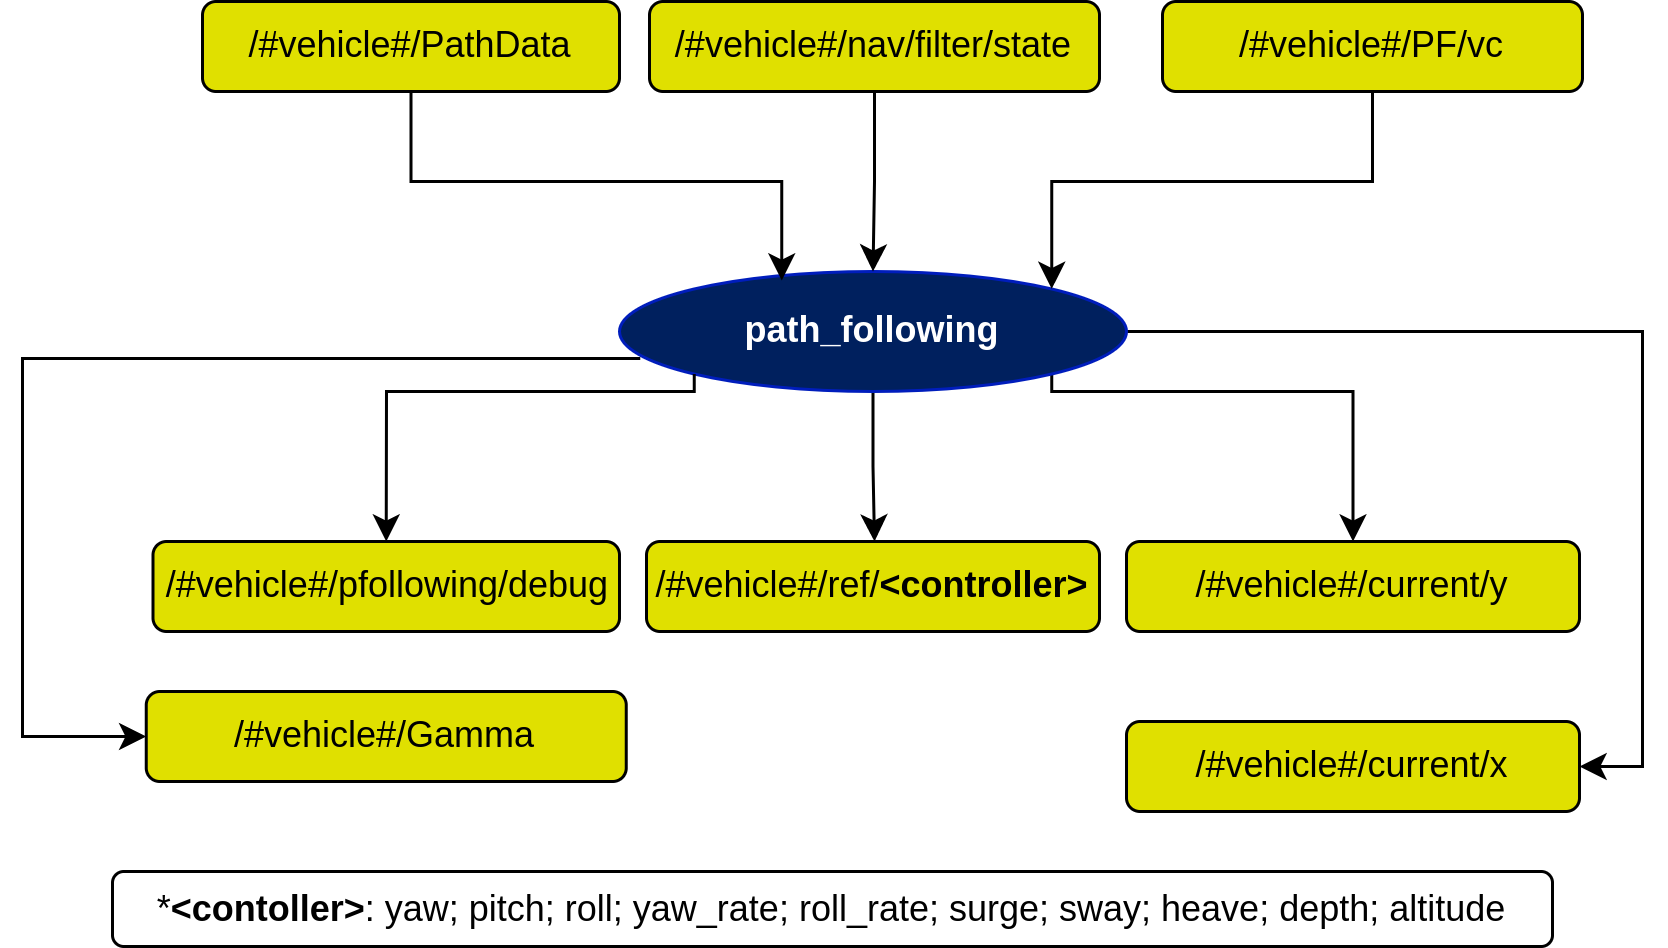
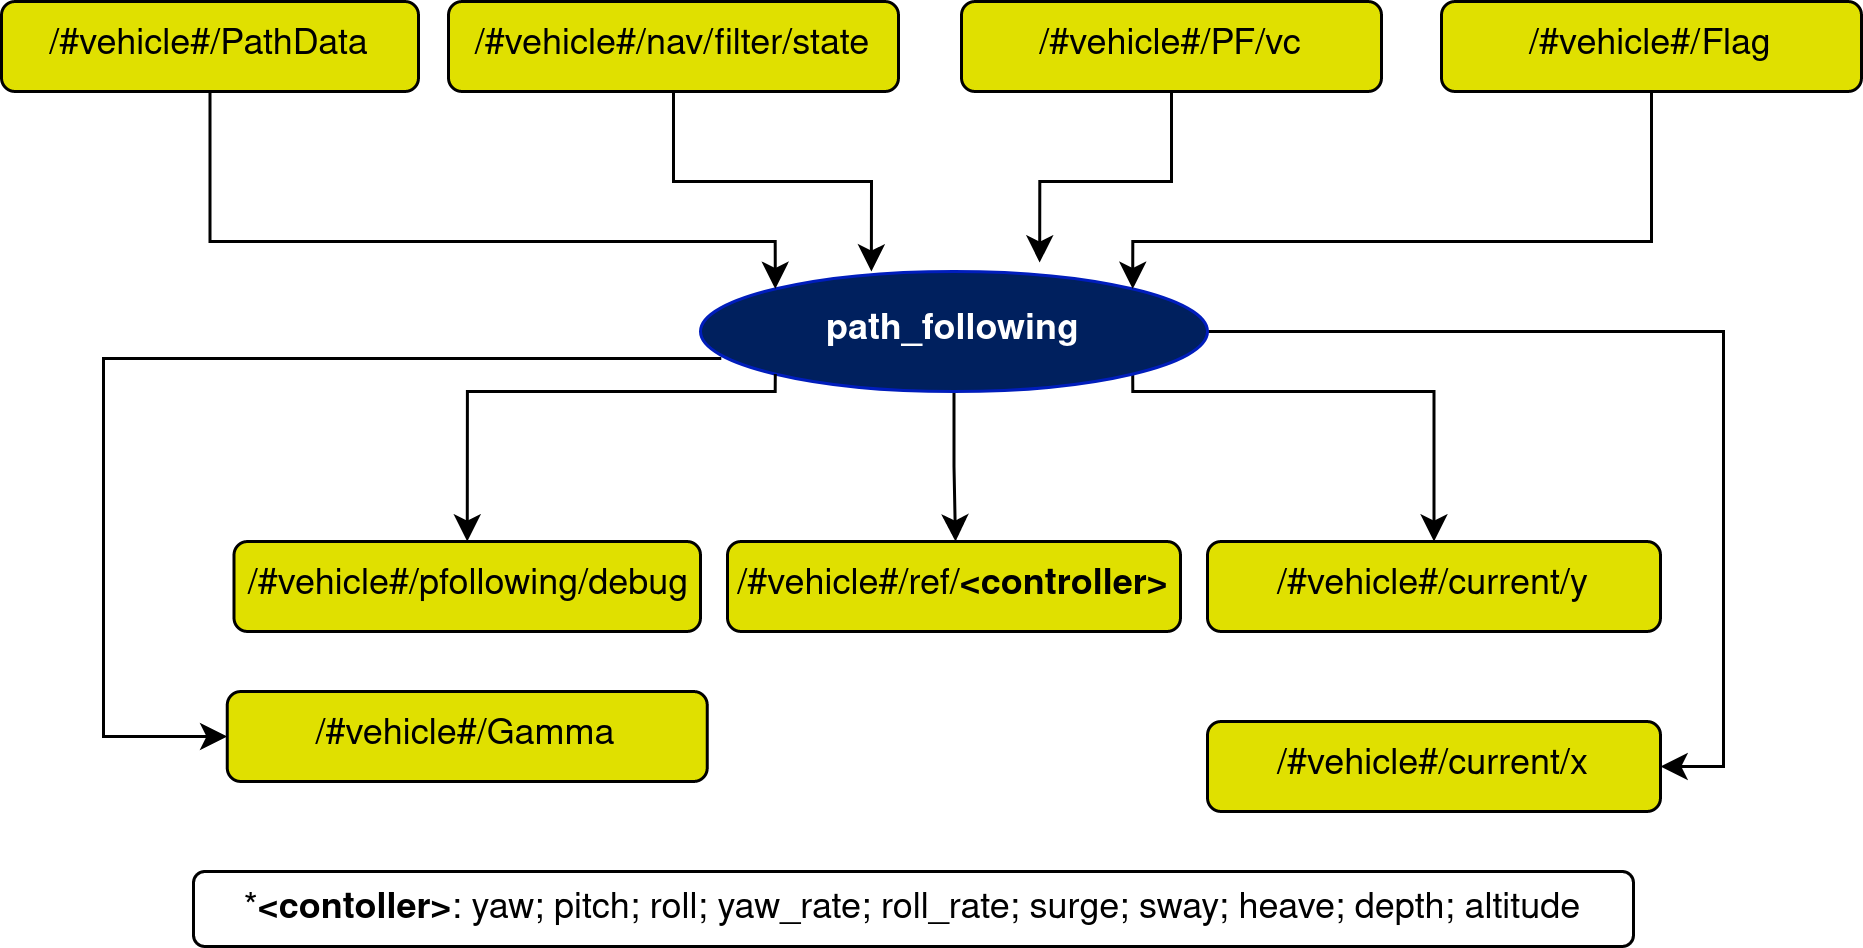
Update(farol_control/path_following): started path following documentation; finish general structure

diff --git a/farol_control/outer_loops_controllers/path_following/src/ros/PathFollowingNode.cpp b/farol_control/outer_loops_controllers/path_following/src/ros/PathFollowingNode.cpp
@@ -211,7 +211,7 @@ void PathFollowingNode::initializePublishers() {
 }
 
 /**
- * @brief  Vc callback used to update the correction velocity for cooperative
+ * @brief  Vc callback used to update the velocity correction for cooperative
  * path following
  *
  * @param msg  A pointer to an std_msgs::Float64 with the synchronization speed

diff --git a/farol_control/outer_loops_controllers/path_following/docs/path_following.md b/farol_control/outer_loops_controllers/path_following/docs/path_following.md
@@ -2,15 +2,33 @@
 
 ## In a nutshell
 
+
 ## Diagram
 ![path_following Diagram](img/path_following_diagram.png)
 
 ## Subscribers
+| Subscribers | msg type | Purpose |
+| --- | --- | --- |
+| /#vehicle#/nav/filter/state | [auv_msgs/NavigationStatus](https://github.com/oceansystemslab/auv_msgs/blob/1faaddd7ee6e9c2c9869e3d8dcff92bb56c2fce4/msg/NavigationStatus.msg) | |
+| /#vehicle#/PathData | [dsor_paths/PathData](https://dsor-isr.github.io/farol/dsor-paths/PathData/) | |
+| /#vehicle#/PF/vc | [std_msgs/Float64](http://docs.ros.org/en/api/std_msgs/html/msg/Float64.html) | |
+| /#vehicle#/Flag | [std_msgs/Int8](http://docs.ros.org/en/api/std_msgs/html/msg/Int8.html) | Flag that determines teh state of the vehicle (idle, following waypoint, path, etc.) |
+
 
 ## Publishers
+| Publishers | msg type | Purpose |
+| --- | --- | --- |
+| /#vehicle#/Gamma | | |
+| /#vehicle#/pfollowing/debug | | |
+| /#vehicle#/current/x | | |
+| /#vehicle#/current/y | | |
+| /#vehicle#/ref/`<controller>` | [std_msgs/Float64](http://docs.ros.org/en/api/std_msgs/html/msg/Float64.html) | |
 
 ## Services
+| Services | msg type | Purpose |
+| --- | --- | --- |
+| | | |
 
 ## Parameters
-
-
+| Parameters | type | Default | Purpose |
+| --- | --- | --- | --- |

diff --git a/farol_control/outer_loops_controllers/path_following/docs/README.md b/farol_control/outer_loops_controllers/path_following/docs/README.md
@@ -20,7 +20,17 @@ By default we provide several algorithms, from Line of Sight (LOS-Fossen) to mor
 **Last Update:** April/2021
 
 ## Nodes
-[path_following](./path_following.md)
+* [path_following](./path_following.md)
+
+## Services
+* [ResetVT](ResetVT.md)
+* [SetPF](SetPF.md)
+* [StartPF](StartPF.md)
+* [StopPF](StopPF.md)
+* [UpdateGainsPF](UpdateGainsPF.md)
+
+## Dependencies
+* None
 
 ## Path Following
 We start by providing a set of path following algorithms. Each algorithm inherits the class **PathFollowing**. As we see, every algorithm, even though different is implemented in the same structured manner. Some control *surge* and *yaw*. Others control *yaw rate* and other control *sway*. Some use the *closest point to the path* in the computations, and some use an *adptive virtual target*.

diff --git a/farol_control/outer_loops_controllers/path_following/docs/ResetVT.md b/farol_control/outer_loops_controllers/path_following/docs/ResetVT.md
@@ -1,0 +1,8 @@
+# [path_following](README.md)/ResetVT
+
+```
+float64 DEFAULT=0.0
+float64 value
+---
+bool success
+```

diff --git a/farol_control/outer_loops_controllers/path_following/docs/UpdateGainsPF.md b/farol_control/outer_loops_controllers/path_following/docs/UpdateGainsPF.md
@@ -1,0 +1,7 @@
+# [path_following](README.md)/UpdateGainsPF
+
+```
+float64[] gains
+---
+bool success
+```

diff --git a/farol_control/outer_loops_controllers/path_following/docs/StartPF.md b/farol_control/outer_loops_controllers/path_following/docs/StartPF.md
@@ -1,0 +1,6 @@
+# [path_following](README.md)/StartPF
+
+```
+---
+bool success
+```

diff --git a/farol_control/outer_loops_controllers/path_following/docs/StopPF.md b/farol_control/outer_loops_controllers/path_following/docs/StopPF.md
@@ -1,0 +1,6 @@
+# [path_following](README.md)/StopPF
+
+```
+---
+bool success
+```

diff --git a/farol_control/outer_loops_controllers/path_following/docs/SetPF.md b/farol_control/outer_loops_controllers/path_following/docs/SetPF.md
@@ -1,0 +1,6 @@
+# [path_following](README.md)/SetPF
+
+```
+---
+bool success
+```
